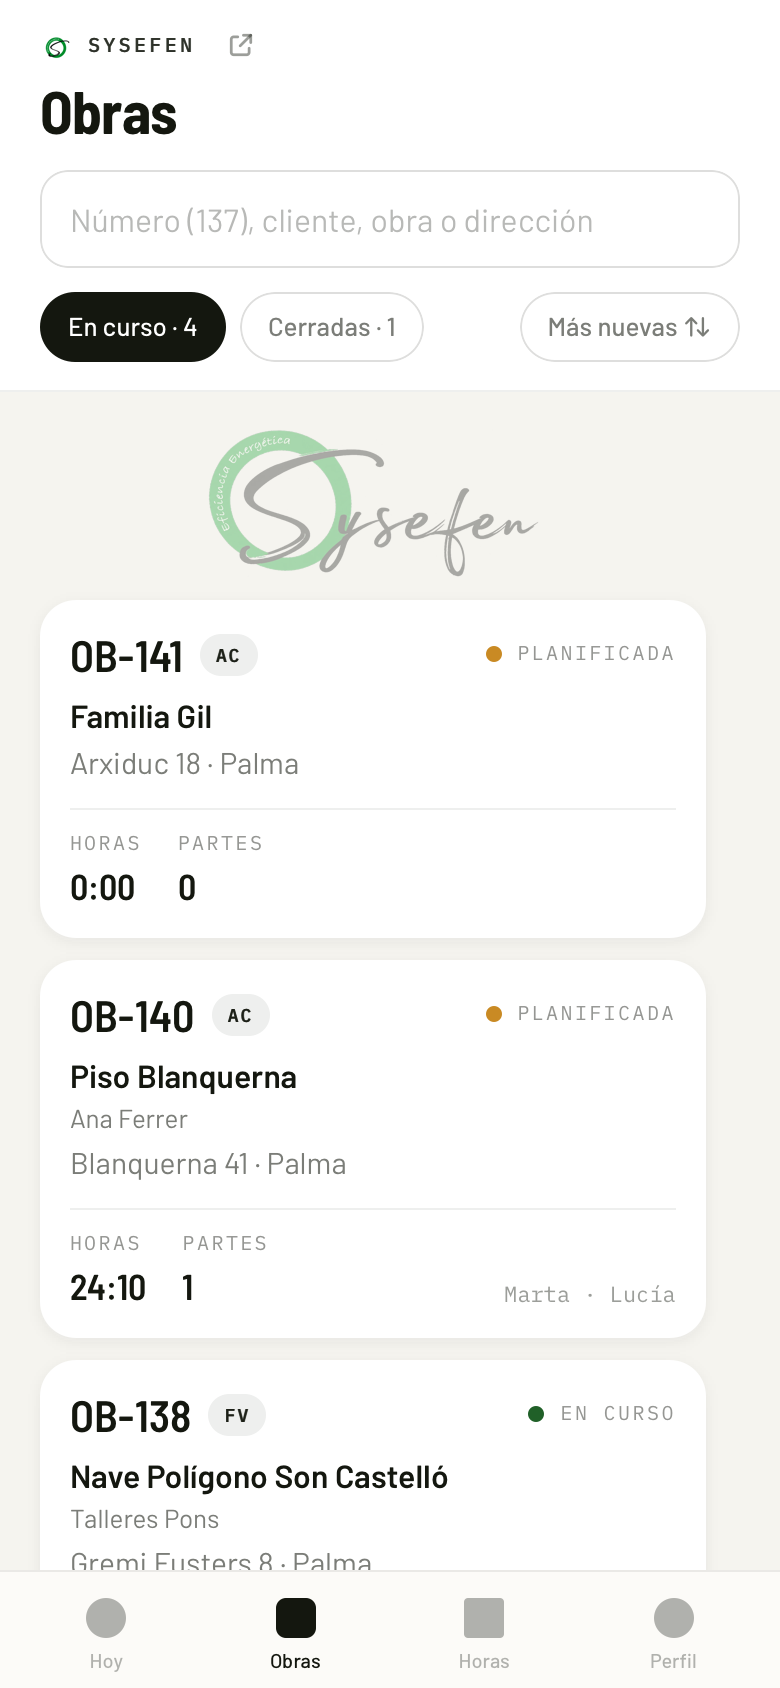
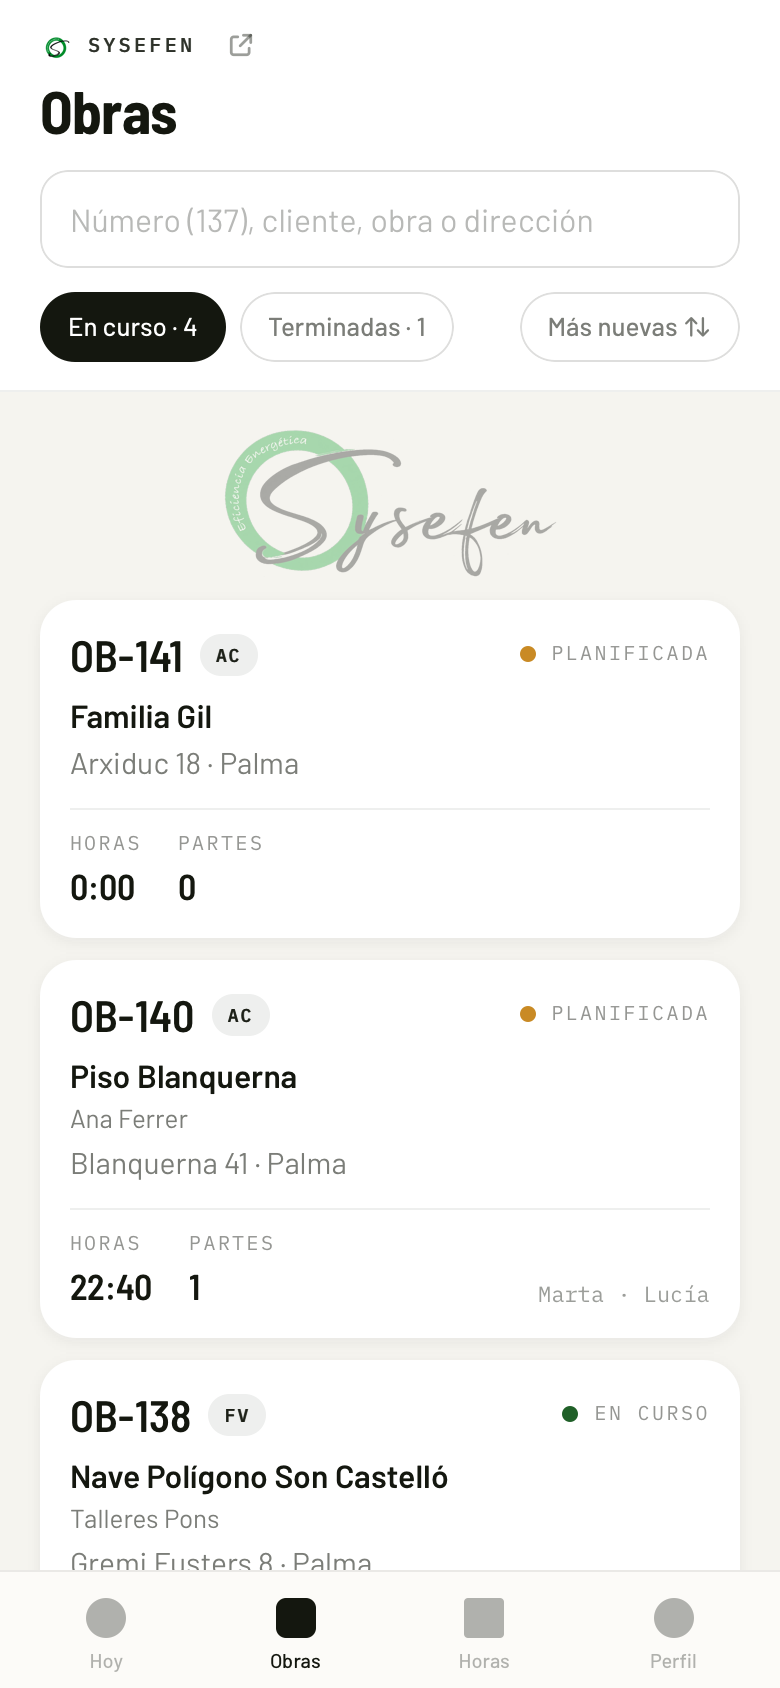
V32.4 (Enzo, 17-11-2026): las obras terminadas salen de «En curso». «En obras siguen estando todas, las en curso junto a las cerradas… debería al terminarse despejarse de esas.» La obra se pone sola en «Finalizada» cuando todas sus fases llegan al 100 % (sql/etapa63), pero la lista solo apartaba las

diff --git a/index.html b/index.html
@@ -512,7 +512,7 @@ import * as idiomas from './presu-idiomas.js';
 window.Sysefen = { supabase, auth: sysAuth, db: sysDB };
 
 const KEY = 'ch_v1';
-const APP_VERSION = '32.3'; // versión visible de la app (única fuente)
+const APP_VERSION = '32.4'; // versión visible de la app (única fuente)
 const $ = (s) => document.querySelector(s);
 const esc = (v) => String(v == null ? '' : v).replace(/[&<>"']/g, (c) => ({ '&': '&amp;', '<': '&lt;', '>': '&gt;', '"': '&quot;', "'": '&#39;' }[c]));
 const uid = () => Date.now().toString(36) + Math.random().toString(36).slice(2, 7);
@@ -883,6 +883,12 @@ const catObraNombre = (k, o) => (k === 'OT' && o && o.categoriaOtra ? o.categori
 const estadoObraDeDB = (v) => (v in OBRA_ESTADOS ? v : v === 'Cerrada' ? 'cerrada' : 'en_curso');
 const estadoObraTxt = (o) => OBRA_ESTADOS[o.estado] || 'En curso';
 const obraCerrada = (o) => o.estado === 'cerrada';
+// Terminada: finalizada (todo al 100 %, se pone sola) o cerrada (a mano). En la
+// lista de obras las dos salen de «En curso» (Enzo, 17-11-2026: «siguen estando
+// todas, las en curso junto a las cerradas… debería al terminarse despejarse»).
+// Para elegir obra en un parte o planificar, la finalizada sigue disponible:
+// ahí solo se esconde la cerrada.
+const obraTerminada = (o) => o.estado === 'finalizada' || o.estado === 'cerrada';
 // OB-007, OB-137, OB-1000. Igual que codigo_obra() en la base. Vacío si la obra
 // aún no tiene número (etapa58 sin ejecutar).
 const codigoObra = (o) => (o && o.numero != null ? 'OB-' + String(o.numero).padStart(3, '0') : '');
@@ -4813,11 +4819,11 @@ function vHoyAdmin(u) {
 
 /* --- obras --- */
 function vObras() {
-  // Todo el equipo ve todas las obras, por orden alfabético. Dos pestañas:
-  // las que están en marcha y las cerradas, para que estas no estorben.
-  const cerradas = V.obrasTab === 'cerradas';
-  const todas = [...S.obras].sort(porTitulo);
-  const enCurso = todas.filter((o) => !obraCerrada(o)), cerr = todas.filter(obraCerrada);
+  // Todo el equipo ve todas las obras. Dos pestañas: las que están en marcha
+  // (planificadas y en curso) y las terminadas (finalizadas y cerradas), para
+  // que estas no estorben.
+  const cerradas = V.obrasTab === 'terminadas';
+  const enCurso = S.obras.filter((o) => !obraTerminada(o)), cerr = S.obras.filter(obraTerminada);
   return `<div class="hdr">
     ${marcaSysefen(false)}
     <div class="row" style="justify-content:space-between">
@@ -4827,7 +4833,7 @@ function vObras() {
     <input class="inp" id="obras-buscar" data-f="obrasBuscar" value="${esc(V.obrasBuscar || '')}" placeholder="Número (137), cliente, obra o dirección" autocomplete="off" style="margin-top:14px">
     <div class="wrap" style="margin-top:12px">
       <span class="chip ${!cerradas ? 'on' : ''}" data-a="obrasTab" data-t="curso" style="cursor:pointer">En curso · ${enCurso.length}</span>
-      <span class="chip ${cerradas ? 'on' : ''}" data-a="obrasTab" data-t="cerradas" style="cursor:pointer">Cerradas${cerr.length ? ' · ' + cerr.length : ''}</span>
+      <span class="chip ${cerradas ? 'on' : ''}" data-a="obrasTab" data-t="terminadas" style="cursor:pointer">Terminadas${cerr.length ? ' · ' + cerr.length : ''}</span>
       <span class="grow"></span>
       ${planifica() ? '<span class="chip" data-a="abrirPlanificacion" style="cursor:pointer;background:var(--verde);color:#fff;border-color:var(--verde)">Planificar semana</span>' : ''}
       <span class="chip" data-a="obrasOrden" style="cursor:pointer">${V.obrasOrden === 'cliente' ? 'A-Z cliente' : 'Más nuevas'} ⇅</span>
@@ -4863,17 +4869,17 @@ function cabeceraObraHTML(o) {
 // La lista de obras de la pestaña elegida, filtrada por lo que se ha escrito.
 // Va aparte para repintar solo esto al teclear, sin perder el foco de la caja.
 function obrasListaHTML() {
-  const cerradas = V.obrasTab === 'cerradas';
+  const cerradas = V.obrasTab === 'terminadas';
   const q = String(V.obrasBuscar || '').trim().toLowerCase();
   const num = numeroBuscado(q);
   const casa = (o) => (num != null ? o.numero === num : true) && (num != null || !q || [o.titulo, o.cliente, o.dir, o.poblacion, codigoObra(o)].some((v) => String(v || '').toLowerCase().includes(q)));
   // Por número, la más nueva arriba; o por cliente si se ha pedido (A-Z).
   const orden = V.obrasOrden === 'cliente' ? porCliente : porNumeroDesc;
-  let lista = [...S.obras].sort(orden).filter((o) => obraCerrada(o) === cerradas);
+  let lista = [...S.obras].sort(orden).filter((o) => obraTerminada(o) === cerradas);
   if (q) lista = lista.filter(casa);
-  if (!lista.length && q) return `<div class="card"><div class="sub">Ninguna obra ${cerradas ? 'cerrada' : 'en curso'} con «${esc(q)}».${cerradas ? '' : (S.obras.some((o) => obraCerrada(o) && casa(o)) ? ' Mira en «Cerradas».' : '')}</div></div>`;
+  if (!lista.length && q) return `<div class="card"><div class="sub">Ninguna obra ${cerradas ? 'terminada' : 'en curso'} con «${esc(q)}».${S.obras.some((o) => obraTerminada(o) !== cerradas && casa(o)) ? (cerradas ? ' Mira en «En curso».' : ' Mira en «Terminadas».') : ''}</div></div>`;
   return `
-    ${!lista.length && cerradas ? '<div class="card"><div class="h2">Ninguna obra cerrada</div><div class="sub" style="margin-top:6px">Cuando una obra se da por terminada, desde su ficha se marca como cerrada y pasa aquí.</div></div>' : ''}
+    ${!lista.length && cerradas ? '<div class="card"><div class="h2">Ninguna obra terminada</div><div class="sub" style="margin-top:6px">Aquí pasan las obras al terminarse: solas, cuando todas sus fases llegan al 100 %, o al marcarlas como cerradas desde su ficha.</div></div>' : ''}
     ${lista.length ? lista.map((o) => `<div class="card" data-a="verObra" data-id="${o.id}" style="margin-bottom:11px;cursor:pointer">
       ${cabeceraObraHTML(o)}
       <div class="row" style="align-items:flex-end;gap:18px;margin-top:13px;padding-top:12px;border-top:1px solid var(--l1)">

diff --git a/manual/index.html b/manual/index.html
@@ -230,7 +230,7 @@ footer{margin-top:60px;padding-top:20px;border-top:1px solid var(--l1);color:var
   <img src="img/op-obras.png" alt="Lista de obras">
   <div class="txt">
     <h4>Obras</h4>
-    <p>Las obras en curso, cada una con su código <b>OB-137</b>, el cliente, la dirección, las horas que lleva, los partes y el <b>avance</b>: un dibujo de la obra (la furgoneta con el material camino de la casa) con el porcentaje y cuántas subfases van hechas. Las cerradas, en su pestaña. Buscador por número («137»), cliente o calle. Toca una para ver su ficha y el proyecto con sus fases.</p>
+    <p>Las obras en curso, cada una con su código <b>OB-137</b>, el cliente, la dirección, las horas que lleva, los partes y el <b>avance</b>: un dibujo de la obra (la furgoneta con el material camino de la casa) con el porcentaje y cuántas subfases van hechas. Las que se terminan salen de esta lista y pasan a la pestaña <b>Terminadas</b>: solas, cuando todas sus fases llegan al 100 % (Finalizada), o al marcarlas como cerradas. Buscador por número («137»), cliente o calle. Toca una para ver su ficha y el proyecto con sus fases.</p>
     <p>No hace falta elegir obra para fichar: las horas se reparten después.</p>
   </div>
 </div>
@@ -297,7 +297,7 @@ footer{margin-top:60px;padding-top:20px;border-top:1px solid var(--l1);color:var
       <li><b>Lista de compra</b>: qué hay que pedir y a quién, sumando todos los presupuestos aceptados de la obra. <b>Ver lista de compra</b> abre el PDF.</li>
       <li><b>Albaranes y recibos</b>: foto o PDF de lo que se compra para esa obra, con importe. Cada uno con importe cuenta como gasto de la obra. Lo ven jefes, presupuestos y Administración.</li>
       <li><b>Partes de esta obra</b>. Si un parte se hizo en la obra equivocada, <b>Cambiar de obra</b> lo lleva a la buena.</li>
-      <li>Abajo: <b>Marcar obra como cerrada</b> (pasa a la pestaña Cerradas), <b>Mover todos los partes a otra obra</b> y <b>Borrar obra</b>, solo si está vacía, sin partes ni horas: para las que se crearon dos veces.</li>
+      <li>Abajo: <b>Marcar obra como cerrada</b> (pasa a la pestaña Terminadas, igual que las que se finalizan solas al llegar al 100 %), <b>Mover todos los partes a otra obra</b> y <b>Borrar obra</b>, solo si está vacía, sin partes ni horas: para las que se crearon dos veces.</li>
     </ul>
     <div class="nota">Los <b>costes</b> (lo que cuesta la hora de cada persona, el margen de la obra) no salen aquí: solo los ven presupuestos y Administración.</div>
   </div>
@@ -901,7 +901,7 @@ footer{margin-top:60px;padding-top:20px;border-top:1px solid var(--l1);color:var
   <tr><td>Un cliente no está en la hoja de clientes</td><td>En su ficha, <b>Apuntarlo en la hoja</b>. Los que se crean desde la app van solos.</td></tr>
 </table>
 
-<footer>Manual de la app Sysefen · al día con la versión 32.3 (13-11-2026) · las pantallas son de ejemplo, con datos inventados · se regenera con <code>herramientas/manual/capturar.py</code></footer>
+<footer>Manual de la app Sysefen · al día con la versión 32.4 (17-11-2026) · las pantallas son de ejemplo, con datos inventados · se regenera con <code>herramientas/manual/capturar.py</code></footer>
 </main>
 </div>
 </body>

diff --git a/pruebas/obras-codigo.js b/pruebas/obras-codigo.js
@@ -45,3 +45,33 @@ var sin = cabeceraObraHTML({ numero: null, categorias: [], nombre: 'Selva', clie
 comprueba('sin número: el nombre hace de título', sin.indexOf('Selva') !== -1 && sin.indexOf('OB-') === -1);
 
 resultado();
+
+// La lista de obras: al terminarse, la obra sale de «En curso» (Enzo,
+// 17-11-2026). Terminada es finalizada (sola, al 100 %) o cerrada (a mano).
+igual('finalizada es terminada', obraTerminada({ estado: 'finalizada' }), true);
+igual('cerrada es terminada', obraTerminada({ estado: 'cerrada' }), true);
+igual('en curso no', obraTerminada({ estado: 'en_curso' }), false);
+igual('planificada no', obraTerminada({ estado: 'planificada' }), false);
+var obrasAntes = S.obras, tabAntes = V.obrasTab, buscarAntes = V.obrasBuscar;
+S.obras = [
+  { id: 'a', numero: 1, titulo: 'Uno', cliente: 'Ana', estado: 'en_curso', categorias: [] },
+  { id: 'b', numero: 2, titulo: 'Dos', cliente: 'Berta', estado: 'planificada', categorias: [] },
+  { id: 'c', numero: 3, titulo: 'Tres', cliente: 'Carla', estado: 'finalizada', categorias: [] },
+  { id: 'd', numero: 4, titulo: 'Cuatro', cliente: 'Dora', estado: 'cerrada', categorias: [] },
+];
+V.obrasBuscar = '';
+V.obrasTab = 'curso';
+var enCursoHTML = obrasListaHTML();
+comprueba('en curso: la que está en curso y la planificada', enCursoHTML.indexOf('OB-001') !== -1 && enCursoHTML.indexOf('OB-002') !== -1);
+comprueba('en curso: ni la finalizada ni la cerrada', enCursoHTML.indexOf('OB-003') === -1 && enCursoHTML.indexOf('OB-004') === -1);
+V.obrasTab = 'terminadas';
+var termHTML = obrasListaHTML();
+comprueba('terminadas: la finalizada y la cerrada', termHTML.indexOf('OB-003') !== -1 && termHTML.indexOf('OB-004') !== -1);
+comprueba('terminadas: ninguna de las abiertas', termHTML.indexOf('OB-001') === -1 && termHTML.indexOf('OB-002') === -1);
+var cab = vObras();
+comprueba('las pestañas cuentan dos y dos', cab.indexOf('En curso · 2') !== -1 && cab.indexOf('Terminadas · 2') !== -1);
+V.obrasTab = 'curso'; V.obrasBuscar = 'Carla';
+comprueba('buscar una terminada desde «En curso» manda a su pestaña', obrasListaHTML().indexOf('Mira en «Terminadas»') !== -1);
+V.obrasTab = 'terminadas'; V.obrasBuscar = 'Ana';
+comprueba('y al revés', obrasListaHTML().indexOf('Mira en «En curso»') !== -1);
+S.obras = obrasAntes; V.obrasTab = tabAntes; V.obrasBuscar = buscarAntes;

diff --git a/sw.js b/sw.js
@@ -1,4 +1,4 @@
-const CACHE = 'ch-v32-3';
+const CACHE = 'ch-v32-4';
 const ASSETS = ['./', './index.html', './manifest.webmanifest', './supabase-client.js', './supabase-auth.js', './supabase-db.js', './visitas-schemas.js', './visitas-form.js', './visitas-db.js', './presu-idiomas.js', './icon-192.png?v=2', './icon-512.png?v=2', './icon-maskable.png?v=2', './logo-trans.png?v=3', './logo-blanco.png?v=3', './logo-s-blanco.png?v=2', './fondo-login.jpg'];
 
 // Al instalarse una versión nueva NO se activa sola: se queda esperando y la
